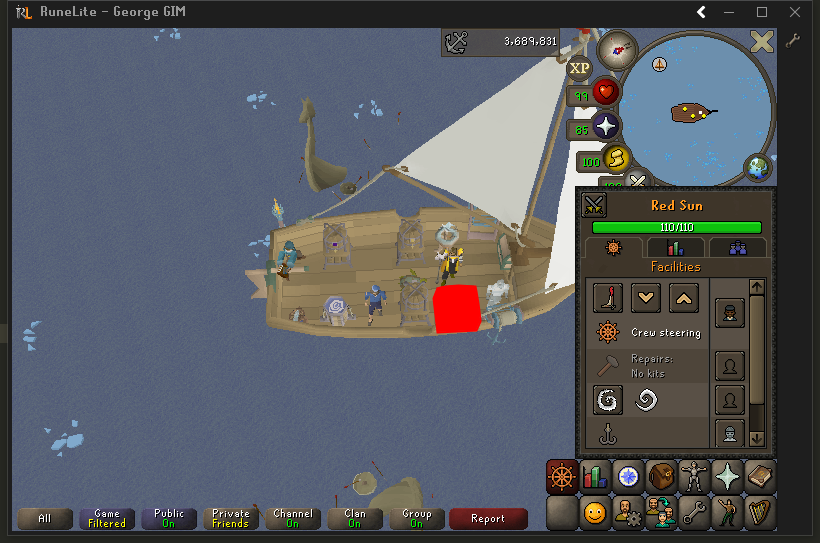
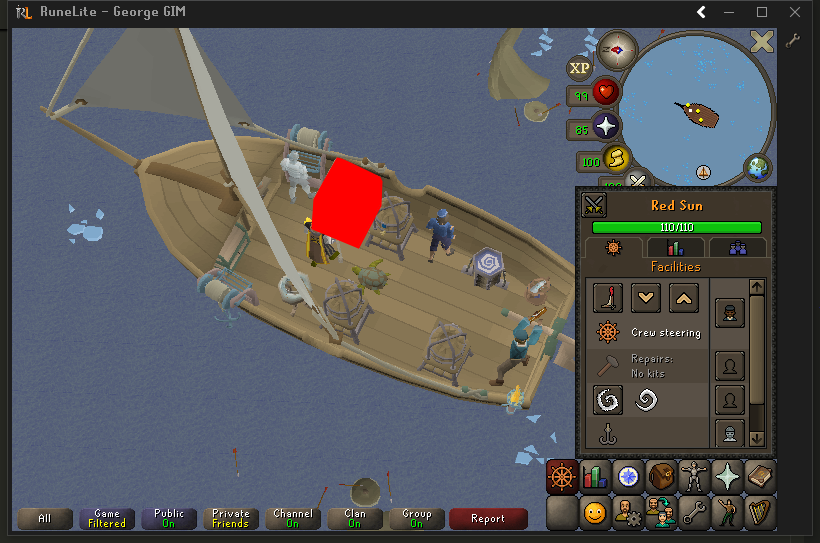
colour detection finished along side mouse movement

diff --git a/window_util.py b/window_util.py
@@ -5,6 +5,77 @@ import cv2
 import numpy as np
 from PIL import ImageGrab
 from mouse_util import MouseMover
+import random
+
+
+class Region:
+    """Helper class for storing and working with rectangular regions."""
+    
+    def __init__(self, x: int, y: int, width: int, height: int):
+        self.x = x
+        self.y = y
+        self.width = width
+        self.height = height
+    
+    @classmethod
+    def from_dict(cls, data: Dict) -> 'Region':
+        """Create a Region from a dictionary with x, y, width, height keys."""
+        return cls(data['x'], data['y'], data['width'], data['height'])
+    
+    def to_dict(self) -> Dict:
+        """Convert Region to dictionary."""
+        return {
+            'x': self.x,
+            'y': self.y,
+            'width': self.width,
+            'height': self.height
+        }
+    
+    def center(self) -> tuple[int, int]:
+        """
+        Get the center point of the region.
+        
+        Returns:
+            Tuple of (x, y) coordinates at the center
+        """
+        return (self.x + self.width // 2, self.y + self.height // 2)
+    
+    def random_point(self) -> tuple[int, int]:
+        """
+        Get a random point within the inner 80% of the region.
+        This creates a 10% margin on all sides for more natural clicking.
+        
+        Returns:
+            Tuple of (x, y) coordinates at a random position within the inner 80%
+        """
+        # Calculate 10% margin on each side
+        margin_x = int(self.width * 0.1)
+        margin_y = int(self.height * 0.1)
+        
+        # Ensure we have at least 1 pixel to work with
+        inner_width = max(1, self.width - 2 * margin_x)
+        inner_height = max(1, self.height - 2 * margin_y)
+        
+        rand_x = self.x + margin_x + random.randint(0, inner_width - 1)
+        rand_y = self.y + margin_y + random.randint(0, inner_height - 1)
+        return (rand_x, rand_y)
+    
+    def contains(self, x: int, y: int) -> bool:
+        """
+        Check if a point is within the region.
+        
+        Args:
+            x: X coordinate to check
+            y: Y coordinate to check
+            
+        Returns:
+            True if point is within bounds, False otherwise
+        """
+        return (self.x <= x < self.x + self.width and 
+                self.y <= y < self.y + self.height)
+    
+    def __repr__(self) -> str:
+        return f"Region(x={self.x}, y={self.y}, width={self.width}, height={self.height})"
 
 
 class Window:
@@ -150,6 +221,52 @@ class Window:
         if debug:
             print("Color not found in image")
         return None
+    
+    def find_color_region(self, rgb: tuple, tolerance: int = 0, debug: bool = False) -> Optional[Region]:
+        """
+        Find a block of color and return its bounding box as a Region.
+        
+        Args:
+            rgb: Tuple of (R, G, B) values to search for (0-255 each)
+            tolerance: Color matching tolerance (0 = exact match, higher = more lenient)
+            debug: If True, save a debug image showing the detected region
+            
+        Returns:
+            Region object with x, y, width, height of the color block, None if not found
+        """
+        if self.screenshot is None:
+            return None
+        
+        # Convert RGB to BGR for OpenCV
+        bgr = (rgb[2], rgb[1], rgb[0])
+        
+        if tolerance == 0:
+            bgr_array = np.array(bgr, dtype=np.uint8)
+            mask = cv2.inRange(self.screenshot, bgr_array, bgr_array)
+        else:
+            lower = np.array([max(0, bgr[i] - tolerance) for i in range(3)], dtype=np.uint8)
+            upper = np.array([min(255, bgr[i] + tolerance) for i in range(3)], dtype=np.uint8)
+            mask = cv2.inRange(self.screenshot, lower, upper)
+        
+        # Find contours
+        contours, _ = cv2.findContours(mask, cv2.RETR_EXTERNAL, cv2.CHAIN_APPROX_SIMPLE)
+        
+        if not contours:
+            return None
+        
+        # Get the largest contour
+        largest_contour = max(contours, key=cv2.contourArea)
+        
+        # Get bounding rectangle
+        x, y, w, h = cv2.boundingRect(largest_contour)
+        
+        if debug:
+            debug_img = self.screenshot.copy()
+            cv2.rectangle(debug_img, (x, y), (x + w, y + h), (0, 255, 0), 2)
+            cv2.imwrite('color_region_debug.png', debug_img)
+            print(f"Found color region at ({x}, {y}) with size {w}x{h}")
+        
+        return Region(int(x), int(y), int(w), int(h))
     
     def move_mouse_to(self, coords: tuple[int, int], duration: float = 0.5, 
                       curve_intensity: float = 1.0) -> bool:

diff --git a/main.py b/main.py
@@ -1,3 +1,4 @@
+from time import sleep
 from window_util import Window
 
 def main():
@@ -5,12 +6,19 @@ def main():
     window.find(title="RuneLite", exact_match=False)
     if window.window:
         window.capture(debug=True)
-        found = window.find_color((255, 0, 0), tolerance=25, debug=True)
-        mouse_color = window.get_color_at_mouse()
-        print(f"Color at mouse position: {mouse_color}")
+        found = window.find_color_region((255, 0, 0), tolerance=25, debug=True)
+        # mouse_color = window.get_color_at_mouse()
+        # print(f"Color at mouse position: {mouse_color}")
         if found:
             print(f"Found color at: {found}")
-            window.move_mouse_to(found)
+            print(f"Moving mouse to: {found.center()}")
+            window.move_mouse_to(found.center())
+            sleep(1)
+            window.move_mouse_to(found.random_point())
+            sleep(1)
+            window.move_mouse_to(found.random_point())
+            sleep(1)
+            window.move_mouse_to(found.random_point())
         else:
             print("Color not found.")
     
